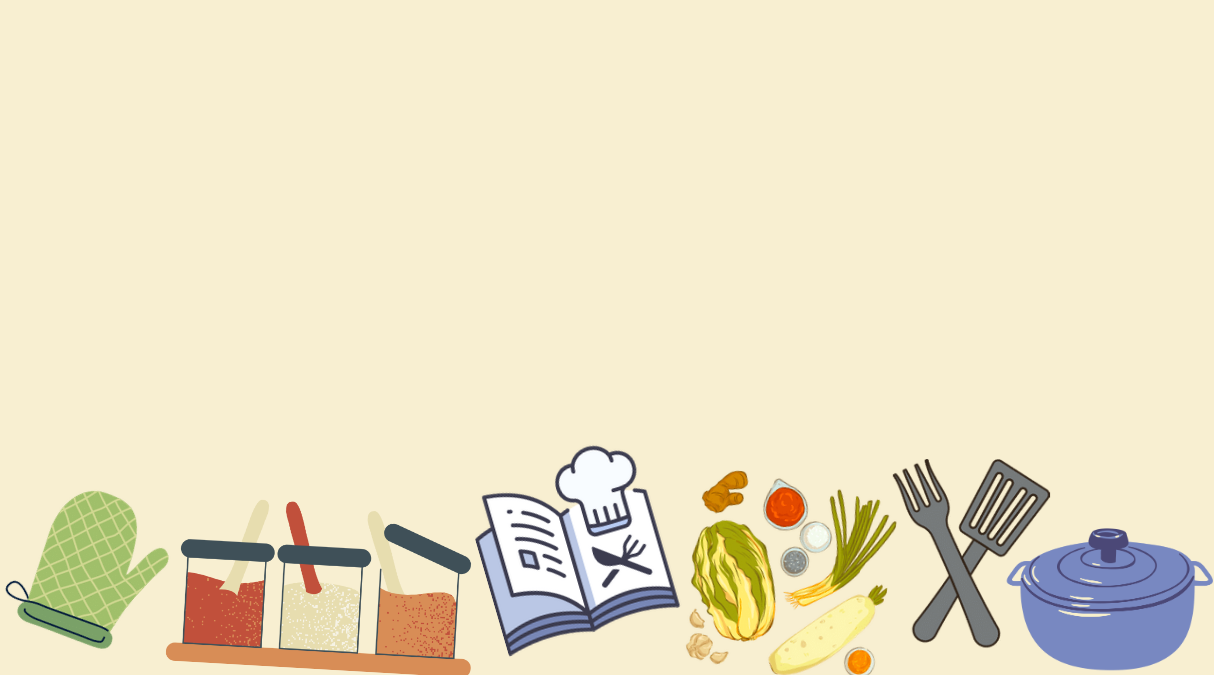
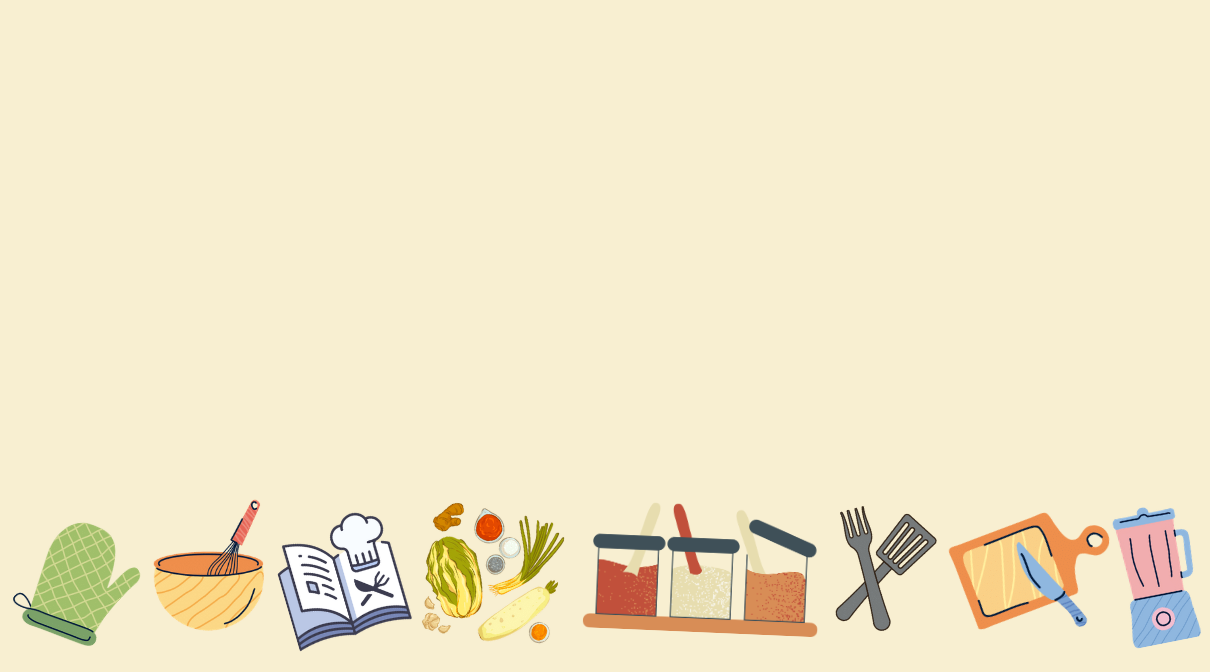
.

Changed region(s): [[0.0, 0.6562, 1.0, 1.0]]

diff --git a/app.py b/app.py
@@ -156,7 +156,7 @@ st.set_page_config(
 background = '''
     <style>
     .stApp {
-        background-image: url("https://github.com/Seunghwan-Ji/final-project/blob/jin/app_gui/background.png?raw=true");
+        background-image: url("https://github.com/Seunghwan-Ji/final-project/blob/jin/app_gui/back.png?raw=true");
         background-size: cover;
         background-position: center;
         min-height: 100vh;
